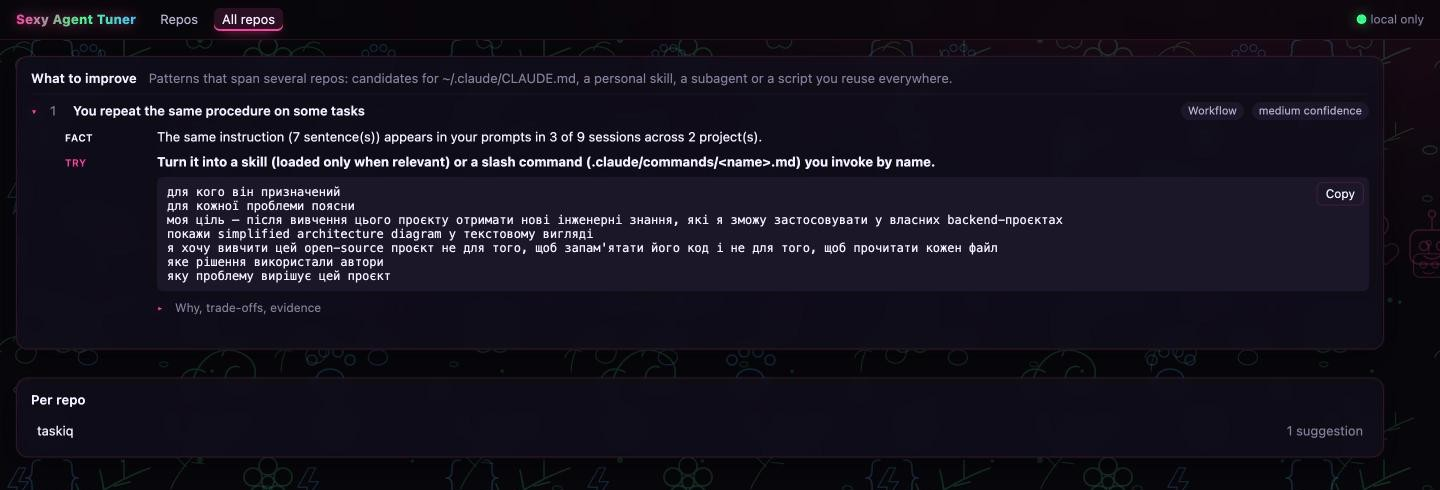
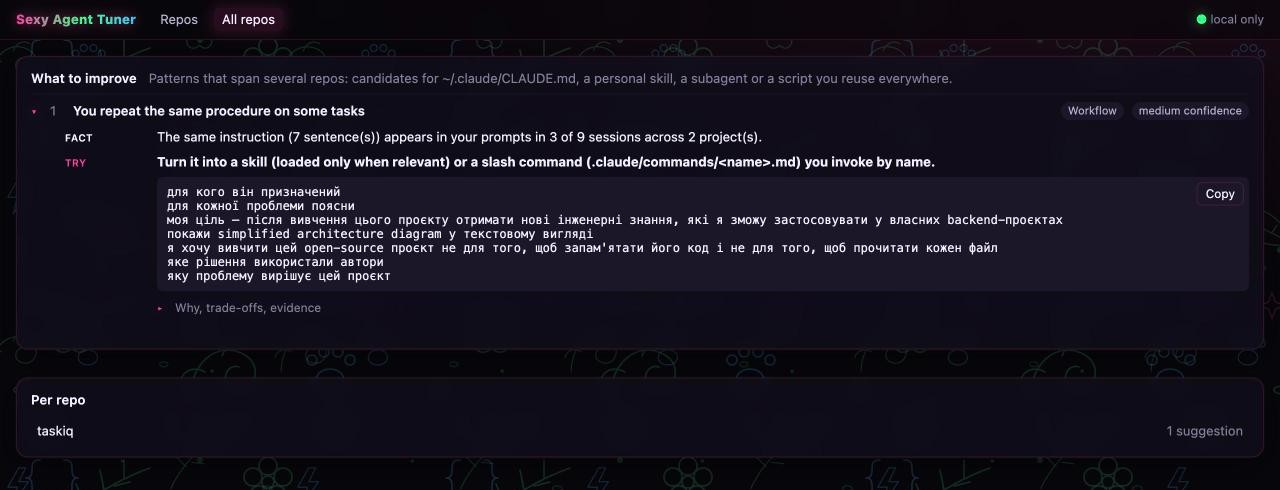
Softer active tabs: translucent pink with blurred edges
Replaces the underline + glow, and refreshes the README screenshots.

diff --git a/app/frontend/src/SessionView.svelte b/app/frontend/src/SessionView.svelte
@@ -250,7 +250,7 @@
   h1 { font-size: 16px; margin: 0 0 2px; font-weight: 600; }
   nav { display: flex; gap: 2px; margin-top: 10px; }
   nav button { border: none; border-bottom: 2px solid transparent; border-radius: 0; background: none; padding: 6px 12px; color: var(--text-secondary); }
-  nav button.active { border-bottom-color: var(--accent); color: var(--text-primary); box-shadow: 0 6px 12px -8px rgb(255 62 165 / .9); }
+  nav button.active { color: var(--text-primary); background: rgb(255 62 165 / .13); box-shadow: 0 0 12px 3px rgb(255 62 165 / .13); border-radius: 6px; backdrop-filter: blur(6px); }
   .tiles { display: grid; grid-template-columns: repeat(auto-fit, minmax(160px, 1fr)); gap: 8px; margin-bottom: 12px; }
   .more > summary { padding: 4px 0 12px; font-weight: 600; }
   .tile { padding: 9px 12px; }

diff --git a/app/frontend/src/App.svelte b/app/frontend/src/App.svelte
@@ -71,7 +71,8 @@
   .nav:hover { color: var(--text-primary); }
   .crumb { border: none; background: none; padding: 2px 4px; color: var(--text-secondary); }
   .crumb.current { color: var(--text-primary); }
-  .nav.active { color: var(--text-primary); background: rgb(255 62 165 / .14); box-shadow: inset 0 -2px 0 var(--pink), 0 6px 14px -8px rgb(255 62 165 / .8); }
+  /* translucent pink with soft, blurred edges */
+  .nav.active { color: var(--text-primary); background: rgb(255 62 165 / .13); box-shadow: 0 0 12px 3px rgb(255 62 165 / .13); backdrop-filter: blur(6px); }
   .local { margin-left: auto; font-size: 12px; }
   .ok { color: var(--ok); text-shadow: var(--glow-green); }
   main { flex: 1; min-height: 0; overflow: auto; }
